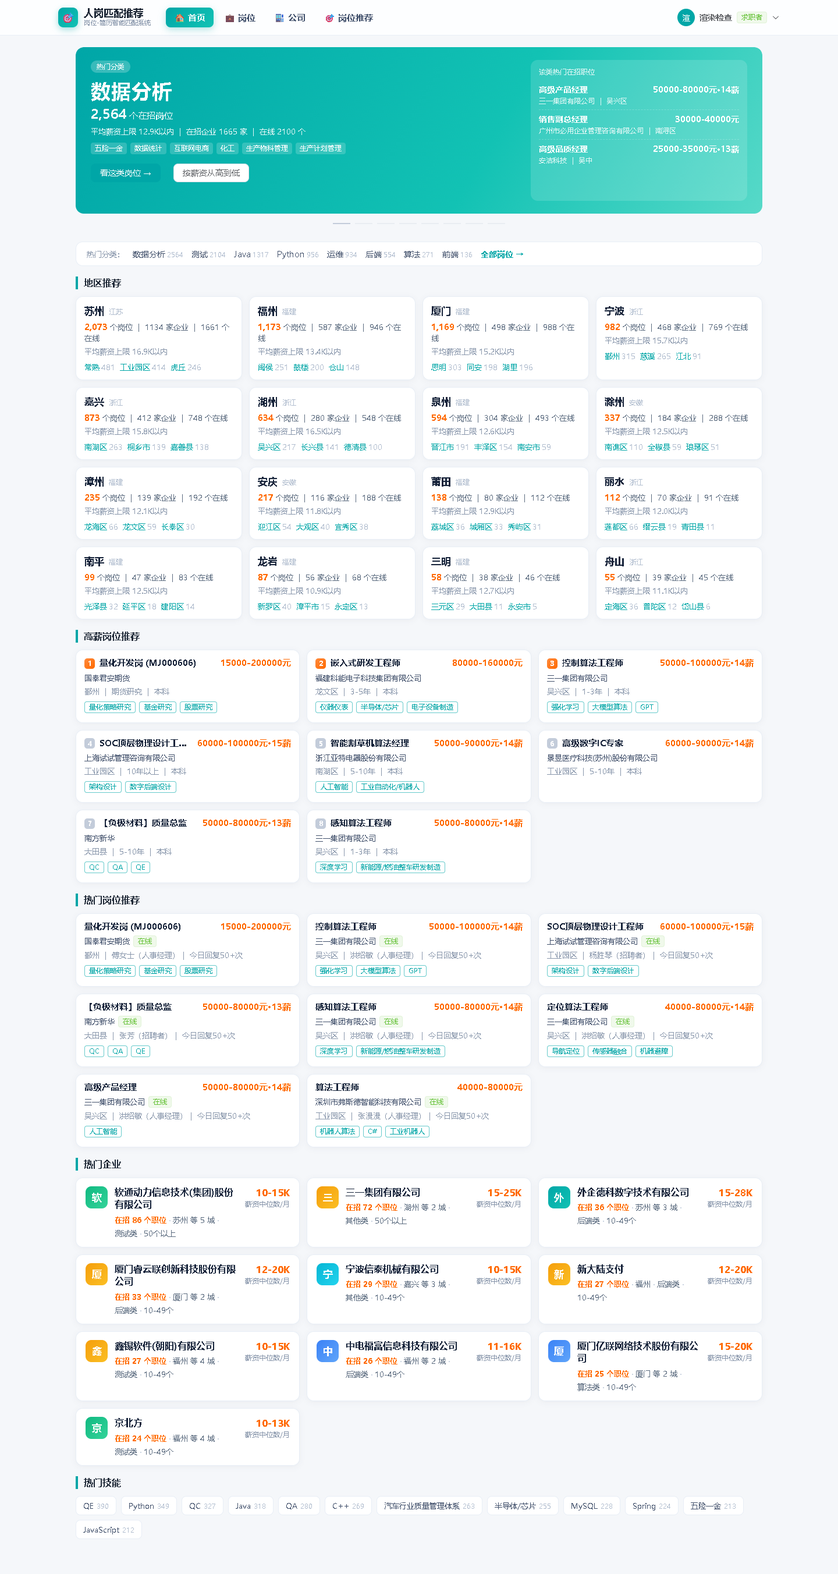
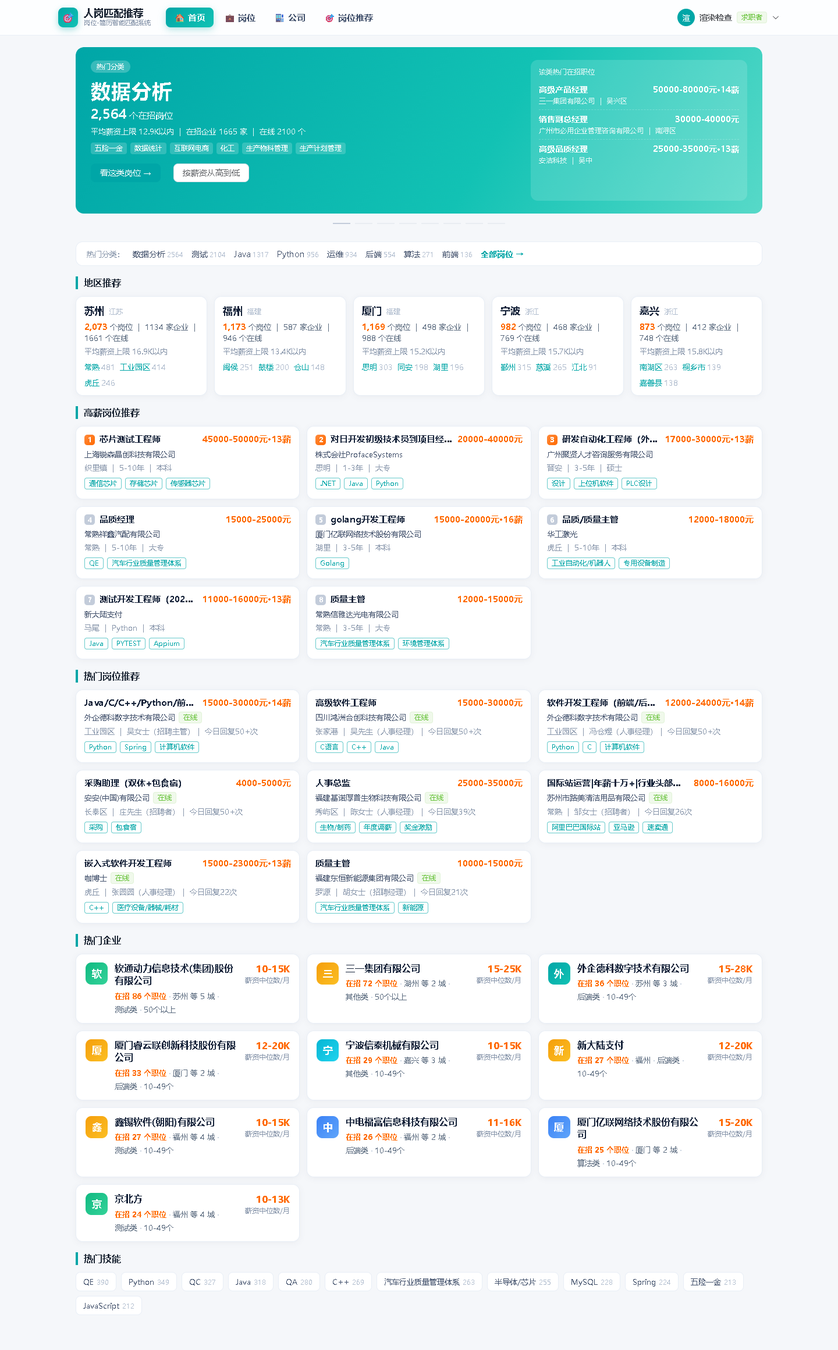
任务11: 首页地区推荐改Top5、高薪岗位（下限>1万池）与热门岗位（回复数>=20池）改为每次请求随机抽8个、热门企业固定Top10；确立前端不放描述性文字的长期约定；测试176->177项全绿

diff --git a/web/src/views/HomeView.vue b/web/src/views/HomeView.vue
@@ -219,7 +219,7 @@ onMounted(async () => {
 .chips a.more { color: var(--el-color-primary); font-weight: 700; }
 
 /* ---------- 地区推荐 ---------- */
-.regions { display: grid; grid-template-columns: repeat(auto-fill, minmax(268px, 1fr)); gap: 12px; }
+.regions { display: grid; grid-template-columns: repeat(auto-fill, minmax(200px, 1fr)); gap: 12px; }
 .rcard { background: #fff; border: 1px solid var(--zq-border); border-radius: 12px;
   padding: 12px 14px; cursor: pointer; transition: .16s; box-shadow: var(--zq-card-shadow); }
 .rcard:hover { box-shadow: 0 8px 22px rgba(0,166,167,.14); transform: translateY(-2px);

diff --git a/web/src/api/home.ts b/web/src/api/home.ts
@@ -10,6 +10,7 @@ export interface HomeJob {
   城市: string
   区县: string
   薪资: string
+  薪资下限: number
   薪资上限: number
   岗位大类: string
   经验要求: string

diff --git a/src/api/jobs.py b/src/api/jobs.py
@@ -12,6 +12,7 @@
 """
 import hashlib
 import os
+import random
 import re
 import sys
 from collections import Counter, defaultdict
@@ -32,6 +33,12 @@ JOBS_CSV = os.path.join(P, "zhaopin_jobs_cleaned_seg.csv")
 CLUSTER_CSV = os.path.join(P, "岗位聚类_标签.csv")
 
 _STORE = None
+
+# 首页「高薪 / 热门岗位」随机推荐的候选池门槛（都是真实列的口径）
+HIGH_SALARY_MIN = 10000      # 高薪池：薪资下限 > 10000 元/月（实测 2,472 个岗位）
+HOT_REPLY_MIN = 20           # 热门池：招聘者今日回复数 ≥ 20（实测 1,676 个岗位）
+REGION_TOP = 5               # 地区推荐只给 Top 5
+COMPANY_TOP = 10             # 热门企业 Top 10
 
 SORTS = {
     "default": "默认排序",
@@ -400,7 +407,8 @@ class JobStore:
         return {
             "岗位ID": x["岗位ID"], "岗位名称": x["岗位名称"], "公司": x["公司"],
             "公司ID": x.get("公司ID", ""), "城市": x["城市"], "区县": x["区县"],
-            "薪资": x["薪资"], "薪资上限": x["薪资上限"], "岗位大类": x["岗位大类"],
+            "薪资": x["薪资"], "薪资下限": x["薪资下限"], "薪资上限": x["薪资上限"],
+            "岗位大类": x["岗位大类"],
             "经验要求": x["经验要求"], "学历要求": x["学历要求"],
             "技能标签": x["技能标签"][:5], "是否在线": x["是否在线"],
             "今日回复数": x["今日回复数"], "回复文案": x["回复文案"],
@@ -409,10 +417,12 @@ class JobStore:
         }
 
     def home(self, hot_n=8):
-        """首页推荐数据：热门分类轮播 + 地区推荐 + 高薪/热门岗位 + 热门企业。
+        """首页推荐数据：热门分类轮播 + 地区推荐 Top5 + 高薪/热门岗位（随机）+ 热门企业 Top10。
 
-        全部只用真实存在的列，**没有**浏览量/投递量这类数据，因此"热门"一律给出
-        明确排序口径（见返回体的 `口径说明`），不写含糊的"热度"。
+        · 地区与热门企业是**固定榜单**（Top N，可复现）；
+        · 高薪 / 热门岗位是**随机抽取**：从真实条件的候选池里 `random.sample`，
+          因此每次进首页看到的都不一样，池子与门槛见 HIGH_SALARY_MIN / HOT_REPLY_MIN；
+        · 全部只用真实存在的列，没有浏览量/投递量这类数据（说明见 `口径说明`，页面不展示）。
         """
         # ① 热门分类 = 抓取这批岗位时用的「来源关键词」列（真实列，共 8 个）
         kws = Counter(x["来源关键词"] for x in self.items if x["来源关键词"])
@@ -430,9 +440,9 @@ class JobStore:
                 "示例岗位": [self._job_brief(x) for x in samples],
             })
 
-        # ② 地区推荐（岗位数 / 公司数 / 平均薪资 / 热门区县）
+        # ② 地区推荐（只给 Top 5；岗位数 / 公司数 / 平均薪资 / 热门区县）
         regions = []
-        for city, cnt in Counter(x["城市"] for x in self.items if x["城市"]).most_common():
+        for city, cnt in Counter(x["城市"] for x in self.items if x["城市"]).most_common(REGION_TOP):
             sub = [x for x in self.items if x["城市"] == city]
             ups = [x["薪资上限"] for x in sub if x["薪资上限"] > 0]
             regions.append({
@@ -444,20 +454,22 @@ class JobStore:
                           Counter(x["区县"] for x in sub if x["区县"]).most_common(3)],
             })
 
-        # ③ 高薪岗位：薪资上限降序（薪资面议/无值排最后）
-        high = sorted(self.items,
-                      key=lambda x: (-(x["薪资上限"] if x["薪资上限"] > 0 else -1),
-                                     -x["今日回复数"]))[:hot_n]
-        # ④ 热门岗位：招聘者「今日回复数」→ 在线 → 薪资上限
-        hot = sorted(self.items,
-                     key=lambda x: (-x["今日回复数"], -x["是否在线"], -x["薪资上限"]))[:hot_n]
+        # ③ 高薪岗位：从「薪资下限 > 10000 元/月」的池子里**随机抽**（每次请求都不一样），
+        #    抽出来后按薪资上限降序展示，榜首仍是本批里最高的
+        high_pool = [x for x in self.items if x["薪资下限"] > HIGH_SALARY_MIN]
+        high = random.sample(high_pool, min(hot_n, len(high_pool))) if high_pool else []
+        high.sort(key=lambda x: -x["薪资上限"])
+        # ④ 热门岗位：从「招聘者今日回复数 ≥ HOT_REPLY_MIN」的池子里**随机抽**，再按回复数降序
+        hot_pool = [x for x in self.items if x["今日回复数"] >= HOT_REPLY_MIN]
+        hot = random.sample(hot_pool, min(hot_n, len(hot_pool))) if hot_pool else []
+        hot.sort(key=lambda x: (-x["今日回复数"], -x["是否在线"], -x["薪资上限"]))
 
         return {
             "热门分类": hero,
             "地区推荐": regions,
             "高薪岗位": [self._job_brief(x) for x in high],
             "热门岗位": [self._job_brief(x) for x in hot],
-            "热门企业": [self._card(c) for c in self.companies[:10]],
+            "热门企业": [self._card(c) for c in self.companies[:COMPANY_TOP]],
             "热门技能": [{"名称": k, "数量": v} for k, v in
                      Counter(s for x in self.items for s in x["技能标签"]).most_common(12)],
             "总体": {
@@ -466,13 +478,15 @@ class JobStore:
                 "有回复岗位数": sum(1 for x in self.items if x["今日回复数"] > 0),
             },
             "口径说明": [
-                "「热门分类」取自真实的「来源关键词」列（抓取这批岗位时用的搜索词，共 8 个），"
-                "不是编的榜单。",
-                "「高薪岗位」按该岗位的薪资上限（元/月）降序；薪资面议的排最后。",
-                "「热门岗位」按「招聘者今日回复数 → 是否在线 → 薪资上限」降序——"
-                "数据里没有浏览/投递量，所以不写含糊的“热度”。",
-                "「地区推荐」的岗位数/公司数/平均薪资上限由该城市真实岗位聚合。",
-                "「热门企业」按在招职位数降序（与公司页同一口径）。",
+                "「热门分类」取自真实的「来源关键词」列（抓取这批岗位时用的搜索词，共 8 个）。",
+                "「地区推荐」只给岗位数 Top %d 的城市，数字由该城市真实岗位聚合。" % REGION_TOP,
+                "「高薪岗位」从薪资下限 > %d 元/月的 %d 个岗位中**随机抽取**（每次请求重新抽），"
+                "抽出来后按薪资上限降序展示；薪资面议的不进池。" % (
+                    HIGH_SALARY_MIN, len(high_pool)),
+                "「热门岗位」从招聘者今日回复数 ≥ %d 的 %d 个岗位中**随机抽取**（每次请求重新抽），"
+                "再按回复数降序；数据里没有浏览/投递量，故不写“热度”。" % (
+                    HOT_REPLY_MIN, len(hot_pool)),
+                "「热门企业」按在招职位数降序取 Top %d。" % COMPANY_TOP,
             ],
             "来源": ["zhaopin_jobs_cleaned_seg.csv（%d 个清洗后岗位）" % len(self.items),
                    "岗位聚类_标签.csv（任务7 聚类结果）"],

diff --git a/tests/test_home.py b/tests/test_home.py
@@ -71,41 +71,62 @@ class TestHomeNormal:
             assert got == c["岗位数"], "「%s」首页显示 %d，岗位页筛出 %d" % (
                 c["分类"], c["岗位数"], got)
 
-    def test_region_recommendation(self):
+    def test_region_recommendation_top5(self):
+        """地区推荐只给 Top 5（按岗位数），每张卡带公司数/平均薪资/热门区县"""
         j = _home()
         regs = j["地区推荐"]
-        assert len(regs) == 16                     # 16 个城市全覆盖
-        assert regs[0]["城市"] == "苏州" and regs[0]["岗位数"] == 2073
-        assert sum(x["岗位数"] for x in regs) == 8836
+        assert len(regs) == 5
+        assert [x["城市"] for x in regs] == ["苏州", "福州", "厦门", "宁波", "嘉兴"]
+        assert regs[0]["岗位数"] == 2073
+        nums = [x["岗位数"] for x in regs]
+        assert nums == sorted(nums, reverse=True)          # Top 5 之间仍是降序
+        assert sum(nums) < 8836                            # 只是子集，不是全部城市
         for x in regs:
             assert x["省份"] and x["公司数"] > 0 and x["平均薪资上限"] > 0
             assert len(x["热门区县"]) <= 3
             assert all(0 < d["数量"] <= x["岗位数"] for d in x["热门区县"])
 
-    def test_high_salary_jobs_sorted(self):
-        j = _home()
-        up = [x["薪资上限"] for x in j["高薪岗位"]]
-        assert len(up) == 8
-        assert up == sorted(up, reverse=True)
-        assert up[0] == 200000                     # 与 /api/jobs?sort=salary_desc 同口径
-        first = client.get("/api/jobs", params={"sort": "salary_desc", "size": 1}).json()["岗位"][0]
-        assert j["高薪岗位"][0]["岗位ID"] == first["岗位ID"]
-        # 「薪资面议」的岗位不能混进高薪榜
-        assert all(x["薪资上限"] > 0 for x in j["高薪岗位"])
+    def test_high_salary_jobs_from_pool(self):
+        """高薪岗位：必须全部来自「薪资下限 > 10000 元/月」的池子，且按薪资上限降序"""
+        ids = {x["岗位ID"] for x in client.get("/api/jobs", params={"size": 100}).json()["岗位"]}
+        assert ids                                            # 岗位接口可用
+        for _ in range(3):
+            j = _home()
+            high = j["高薪岗位"]
+            assert len(high) == 8
+            assert all(x["薪资下限"] > 10000 for x in high), "有岗位的薪资下限没到 1 万"
+            ups = [x["薪资上限"] for x in high]
+            assert ups == sorted(ups, reverse=True)
+            # 池子校验：随机抽出来的岗位确实存在于岗位库中
+            for x in high:
+                assert client.get("/api/jobs/%s" % x["岗位ID"]).status_code == 200
 
-    def test_hot_jobs_sorted_by_recruiter_reply(self):
-        j = _home()
-        rep = [x["今日回复数"] for x in j["热门岗位"]]
-        assert len(rep) == 8
-        assert rep == sorted(rep, reverse=True)
-        assert rep[0] > 0
-        # 与岗位接口「回复最积极」排序的最大值一致
-        top_reply = client.get("/api/jobs", params={"sort": "reply", "size": 1}).json()["岗位"][0]
-        assert rep[0] == top_reply["今日回复数"]
-        for x in j["热门岗位"]:
-            assert x["招聘者"] and x["回复文案"]
+    def test_hot_jobs_from_pool(self):
+        """热门岗位：必须全部来自「招聘者今日回复数 ≥ 20」的池子，且按回复数降序"""
+        for _ in range(3):
+            hot = _home()["热门岗位"]
+            assert len(hot) == 8
+            assert all(x["今日回复数"] >= 20 for x in hot), "有岗位的回复数没到 20"
+            rep = [x["今日回复数"] for x in hot]
+            assert rep == sorted(rep, reverse=True)
+            for x in hot:
+                assert x["招聘者"] and x["回复文案"]
 
-    def test_hot_companies(self):
+    def test_both_lists_are_random_each_request(self):
+        """随机性：连续 5 次请求，两组榜单至少出现 2 种不同组合（池子 1000+，不可能撞车）"""
+        high_sets, hot_sets = set(), set()
+        for _ in range(5):
+            j = _home()
+            high_sets.add(frozenset(x["岗位ID"] for x in j["高薪岗位"]))
+            hot_sets.add(frozenset(x["岗位ID"] for x in j["热门岗位"]))
+        assert len(high_sets) >= 2, "高薪岗位每次返回都一样，没有随机"
+        assert len(hot_sets) >= 2, "热门岗位每次返回都一样，没有随机"
+        # 反向：固定榜单（地区 / 热门企业）必须每次一致
+        a, b = _home(), _home()
+        assert [x["城市"] for x in a["地区推荐"]] == [x["城市"] for x in b["地区推荐"]]
+        assert [x["公司ID"] for x in a["热门企业"]] == [x["公司ID"] for x in b["热门企业"]]
+
+    def test_hot_companies_top10(self):
         j = _home()
         comps = j["热门企业"]
         assert len(comps) == 10
@@ -134,11 +155,15 @@ class TestHomeNormal:
         assert h["有回复岗位数"] == s["有回复数据岗位数"]
 
     def test_caliber_notes(self):
+        """口径说明随接口返回（页面不展示，但接口/文档必须有）"""
         j = _home()
         assert len(j["口径说明"]) >= 5
-        assert any("来源关键词" in s for s in j["口径说明"])
-        assert any("薪资上限" in s for s in j["口径说明"])
-        assert any("浏览" in s or "投递" in s for s in j["口径说明"])
+        notes = " ".join(j["口径说明"])
+        assert "来源关键词" in notes
+        assert "随机抽取" in notes                    # 高薪/热门是随机抽的，必须写明
+        assert "10000" in notes and "Top 5" in notes
+        assert "回复数 ≥ 20" in notes and "Top 10" in notes
+        assert "浏览" in notes or "投递" in notes      # 说明为什么不用"热度"
         assert j["来源"]
 
 

diff --git a/docs/测试报告.md b/docs/测试报告.md
@@ -5,12 +5,12 @@
 | 对应任务 | **任务12 系统测试与优化**（2026-09-22 周二）｜ 本版聚焦 **任务11 前后端集成 + 用户体系** |
 | 测试对象 | FastAPI 后端（四类业务接口 + 用户体系）、Streamlit 前端（登录注册 + 五页签） |
 | 测试框架 | pytest 9.1.1 ｜ FastAPI `TestClient`（进程内）｜ Streamlit `AppTest`（无头执行前端脚本） |
-| 用例规模 | **176 项**（岗位浏览 37 + **首页推荐 21** + 公司浏览 37 + 业务接口 31 + 用户体系 40 + 前端 10），覆盖 **正常 / 边界 / 异常** 三条路径 |
-| 实测结果 | ✅ **176 passed / 0 failed**（26.39 s，2026-09-18 实测；前端无头渲染另计） |
-| 状态 | ✅ 通过 ｜ 版本 v1.9（2026-09-18）｜ 记录人：王俊淇 |
+| 用例规模 | **177 项**（岗位浏览 37 + **首页推荐 22** + 公司浏览 37 + 业务接口 31 + 用户体系 40 + 前端 10），覆盖 **正常 / 边界 / 异常** 三条路径 |
+| 实测结果 | ✅ **177 passed / 0 failed**（27.29 s，2026-09-18 实测；前端无头渲染另计） |
+| 状态 | ✅ 通过 ｜ 版本 v2.1（2026-09-18）｜ 记录人：王俊淇 |
 
 ```bash
-pytest -q                                       # 全部 176 项
+pytest -q                                       # 全部 177 项
 pytest -q tests/test_api.py -m "not slow"       # 只跑业务接口（离线可跑）
 pytest -q tests/test_auth.py                    # 用户体系
 pytest -q tests/test_home.py tests/test_jobs.py tests/test_companies.py   # 首页/岗位/公司
@@ -163,13 +163,15 @@ python src/api/score_features.py --validate 10  # 特征口径一致性自检
 
 ---
 
-### 2.10 首页推荐（21 项，`tests/test_home.py`，v1.9 新增）
+### 2.10 首页推荐（22 项，`tests/test_home.py`，v1.9 新增 / v2.1 扩充）
 
-> 首页重做为推荐页后新增的接口 `GET /api/home`。这组用例的重点是**"榜单口径必须能被验证"**：
+> 首页重做后新增的接口 `GET /api/home`。这组用例的重点是**"榜单口径必须能被验证"**，
+> 其中"随机推荐"要同时证明**真的随机**（连抽 5 次至少 2 种组合）与**池子没被突破**（每条都满足入选条件）：
 
 | 分组 | 项数 | 关键断言 |
 |---|---|---|
-| 正常路径 | 9 | 热门分类 = 8 个且顺序为 数据分析/测试/Java/Python/运维/后端/算法/前端；各分类岗位数之和 = **8,836**；地区推荐 16 城（苏州 2,073 居首）且区县 ≤3；高薪榜按薪资上限降序、榜首 200,000 且与 `/api/jobs?sort=salary_desc` 一致；热门榜按今日回复数降序且榜首与 `sort=reply` 一致；热门企业 10 家按在招职位数降序（软通动力 86）；总体与 `/api/jobs/stats` **逐项相等**；口径说明 ≥5 条 |
+| 正常路径 | 9 | 热门分类 = 8 个且顺序为 数据分析/测试/Java/Python/运维/后端/算法/前端；各分类岗位数之和 = **8,836**；**地区推荐 = Top 5**（苏州 2073 / 福州 1173 / 厦门 1169 / 宁波 982 / 嘉兴 873，且是子集不是全部）；**热门企业 Top 10** 按在招职位数降序（软通动力 86）；总体与 `/api/jobs/stats` **逐项相等**；口径说明 ≥5 条 |
+| 随机性与池子 | 3 | **高薪岗位**每条 `薪资下限 > 10000`、按薪资上限降序、且 `GET /api/jobs/{id}` 可查；**热门岗位**每条 `今日回复数 ≥ 20`、按回复数降序；**连抽 5 次**两组榜单各至少出现 2 种不同组合，同时**地区推荐与热门企业两次必须完全一致**（固定榜单不许被随机打破） |
 | 跨接口一致性 | 1 | 首页分类卡数字 == `/api/jobs?source_kw=分类` 条数（**锁死 2,564 vs 2,803 这类口径分歧**） |
 | 诚实性 | 2 | 榜单里**不得**出现 `浏览量/投递量/热度/应聘人数/收藏量`（数据里没有这些列）；榜单卡片不带职位描述全文、技能标签 ≤5 |
 | 边界 | 6 | `n=1/3/8/20` 返回条数正确；`n=0` 与 `n=-5` 夹到 1；`n=999` 夹到 20 |
@@ -291,7 +293,8 @@ python src/api/score_features.py --validate 10  # 特征口径一致性自检
 
 ---
 
-> 文档版本：v2.0（2026-09-18，**页面清理描述性文字后的复核**：删除页面上全部「口径 / 数据来源 / 数据规模」类说明文字（首页区块口径小字与底部两行、全站页脚、岗位页数据规模说明、公司页"数据来源"前缀与榜单标题后缀、公司详情「数据来源」面板、岗位推荐页「📎 来源」与「⚠ 已知局限」折叠框、个人中心 PBKDF2 说明、匹配抽屉里的口径说明一行）；**后端接口与文档中的口径/来源全部保留**，故**用例数不变——仍 176 项全绿**；渲染脚本反向断言扩充为 `口径说明`/`数据来源`/`每个结论都带`/`按岗位数排序`/`排序（在线优先）`/`按在招职位数排序`/`可追溯到数据文件`/`如实说明`/`PBKDF2` 等（扫描全量 DOM），另用一次性脚本逐页复查可见文本，**8 个页面全部干净**，8 路由 0 error；
+> 文档版本：v2.1（2026-09-18，**首页"固定榜单 + 随机推荐"改版的复核**：地区推荐改为 Top 5、高薪岗位从「薪资下限 > 10,000」池（2,472 个）随机抽、热门岗位从「今日回复数 ≥ 20」池（1,676 个）随机抽、热门企业固定 Top 10；`tests/test_home.py` 21 → **22 项**（新增随机性用例"连抽 5 次至少 2 种组合 + 固定榜单两次一致"，并为两组榜单加池子校验），总计 **177 项全绿**（27.29 s）；另用一次性浏览器脚本验证**每次进首页两组推荐确实不同**（第 1 次 vs 第 2 次岗位名不同）、地区 5 个与热门企业 10 家保持固定、页面无描述性文字、控制台 0 error；8 路由 0 error；
+> v2.0（2026-09-18，**页面清理描述性文字后的复核**：删除页面上全部「口径 / 数据来源 / 数据规模」类说明文字（首页区块口径小字与底部两行、全站页脚、岗位页数据规模说明、公司页"数据来源"前缀与榜单标题后缀、公司详情「数据来源」面板、岗位推荐页「📎 来源」与「⚠ 已知局限」折叠框、个人中心 PBKDF2 说明、匹配抽屉里的口径说明一行）；**后端接口与文档中的口径/来源全部保留**，故**用例数不变——仍 176 项全绿**；渲染脚本反向断言扩充为 `口径说明`/`数据来源`/`每个结论都带`/`按岗位数排序`/`排序（在线优先）`/`按在招职位数排序`/`可追溯到数据文件`/`如实说明`/`PBKDF2` 等（扫描全量 DOM），另用一次性脚本逐页复查可见文本，**8 个页面全部干净**，8 路由 0 error；
 > v1.9（2026-09-18，**首页与导航改版后的复核**：新增 `tests/test_home.py` **21 项**（首页推荐 `/api/home`：榜单口径、跨接口一致性、诚实性"不得编热度字段"、边界与异常），`tests/test_jobs.py` 新增 `source_kw` **2 项**，用例总数 153 → **176 项全绿**（26.39 s）；前端无头渲染新增**游客态**断言（游客仅三个标签、`/#/match` 与 `/#/profile` 弹回登录页，改用独立无痕上下文避免共享 localStorage 误判）与 2 个旧地址重定向断言；另用一次性真实点击脚本验证首页轮播自动滚动、各区块跳转与个人中心"粘贴→解析→保存→去匹配"链路；
 > v1.8（2026-09-18，**注册界面移除角色选择后的复核**：Vue3 与 Streamlit 两套前端注册表单都删掉角色单选，前端不再传 `role`、由后端默认 `jobseeker`；**后端用例未改**（`test_auth.py` 仍覆盖 `employer`/`admin` 角色与 403 权限演示），`test_web.py` 的 Streamlit 注册链路（按 `text_input` 填表 + 点「注册并登录」）**仍 10 项全绿**，总计仍 **153 项全绿**；渲染脚本反向断言升级为扫描**全量 DOM 文本**（含隐藏页签），并用探针脚本验证"隐藏页签内容确实可被检测、角色/求职者/企业 已彻底消失"；另用一次性脚本真实点击验证注册表单只剩 3 个字段、注册成功、新账号 `role=jobseeker`；8 路由 0 error；
 > v1.7（2026-09-18，**登录页改版后的前端复核**：删除登录页左栏品牌面板与口令说明文案，改为整页渐变 + 居中卡片；新增渲染路由 `login`（7 → **8 路由 0 error**）与"已删左栏文案回流"反向断言；一次性脚本量测 1440/1920/420 三视口的居中、宽度、无横向滚动，并跑通「注册 → 退出 → 重新登录 → 游客入口」真实点击链路，**控制台 0 error**；后端未改，仍 **153 项全绿**；

diff --git a/web/README.md b/web/README.md
@@ -60,9 +60,13 @@ web/
 > 旧地址 `#/resume` 自动重定向到个人中心。**智能问答页面与后端保留**，只是当前没有导航入口（`#/chat` 仍可访问）。
 > 已删除的页面：`ClustersView.vue`（岗位聚类，2026-09-18）、`ResumeView.vue`（并入个人中心）、`JobsView.vue`（改名为 `MatchView.vue` 并挂到 `/match`）。
 >
-> **页面上不放"描述性文字"**：口径说明、数据来源、数据规模、已知局限等说明文字**一律不出现在界面**上
-> （接口仍返回、`docs/` 仍记录、测试仍守护），页面只保留功能与数据本身。渲染脚本的反向断言会把
-> `口径说明`/`数据来源`/`每个结论都带`/`按岗位数排序`/`如实说明`/`PBKDF2` 等字样当作"不该出现的内容"扫描全量 DOM。
+> **页面上不放"描述性文字"（长期约定）**：口径说明、数据来源、数据规模、已知局限、以及"这个推荐是怎么来的"
+> 之类的说明文字**一律不出现在界面**上（接口仍返回、`docs/` 仍记录、测试仍守护），页面只保留功能与数据本身。
+> `render-check.mjs` 会把这些字样当作"不该出现的内容"扫描全量 DOM，首页还额外禁 `排序`/`口径`/`随机抽取`/`来源：` 等。
+>
+> **首页两处随机推荐**：`地区推荐` 固定 Top 5、`热门企业` 固定 Top 10；**`高薪岗位推荐`** 从「薪资下限 > 10000 元/月」的
+> 2,472 个岗位里、**`热门岗位推荐`** 从「今日回复数 ≥ 20」的 1,676 个岗位里**每次请求随机抽 8 个**
+> （所以每次进首页都不一样，抽完仍按各自指标降序展示）。随机只发生在服务端 `/api/home`，前端无需处理。
 
 ## 运行
 
